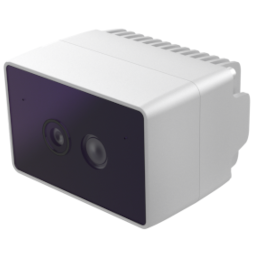
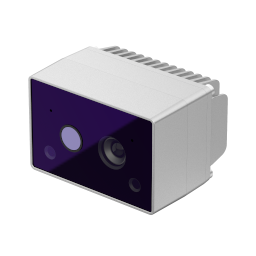
Updated OAK-T images

diff --git a/docs/source/pages/OAK-T.rst b/docs/source/pages/OAK-T.rst
@@ -1,19 +1,19 @@
 .. _oakt:
 
-OAK-T
-=====
+OAK-Thermal
+===========
 
 .. role:: raw-html(raw)
    :format: html
 
-`Buy it on Luxonis shop <https://shop.luxonis.com/collections/early-access/products/>`__ - :raw-html:`<font color="red"><b>Early Access</b></font>`
+`Buy it on Luxonis shop <https://shop.luxonis.com/collections/early-access/products/oak-t>`__ - :raw-html:`<font color="red"><b>Early Access</b></font>`
 
-.. thumbnail:: /_static/images/OAK-T/oak-t-render.png
+.. thumbnail:: /_static/images/OAK-T/oak-t.png
 
 Overview
 ********
 
-The **OAK-T** (OAK Thermal) is our first camera with a **thermal sensor** and a color image sensor.
+The **OAK-T** (OAK-Thermal) is our first camera with a **thermal sensor** and a color image sensor.
 
 When fusing thermal frames, color frames, and AI models, you can create a wide variety of applications in different fields, such as:
 
@@ -21,6 +21,8 @@ When fusing thermal frames, color frames, and AI models, you can create a wide v
 - **Industrial**: Detect overheating, detect leaks, detect fires, etc.
 - **Security**: Detect intruders (night vision), detect fires, etc.
 - **Transportation**: Detect pedestrians, vehicles, bicycles for analytics and traffic optimization...
+
+.. thumbnail:: /_static/images/OAK-T/oak-t-industries.png
 
 It leverages our :ref:`OAK-SoM-Pro <bw2099>` to make an overall compact design. The use of the SoM reduces the
 design's scale, making it easier to mount or fit anywhere seamlessly. The design will also be open-source when we verify the hardware design.

diff --git a/docs/source/index.rst b/docs/source/index.rst
@@ -352,6 +352,7 @@ Some **older models** can be :ref:`found here <Other models>`.
    :hidden:
    :caption: Miscellaneous Designs
 
+   pages/OAK-T.rst
    pages/DM1097.rst
    pages/rae.rst
    pages/DM2097.rst
